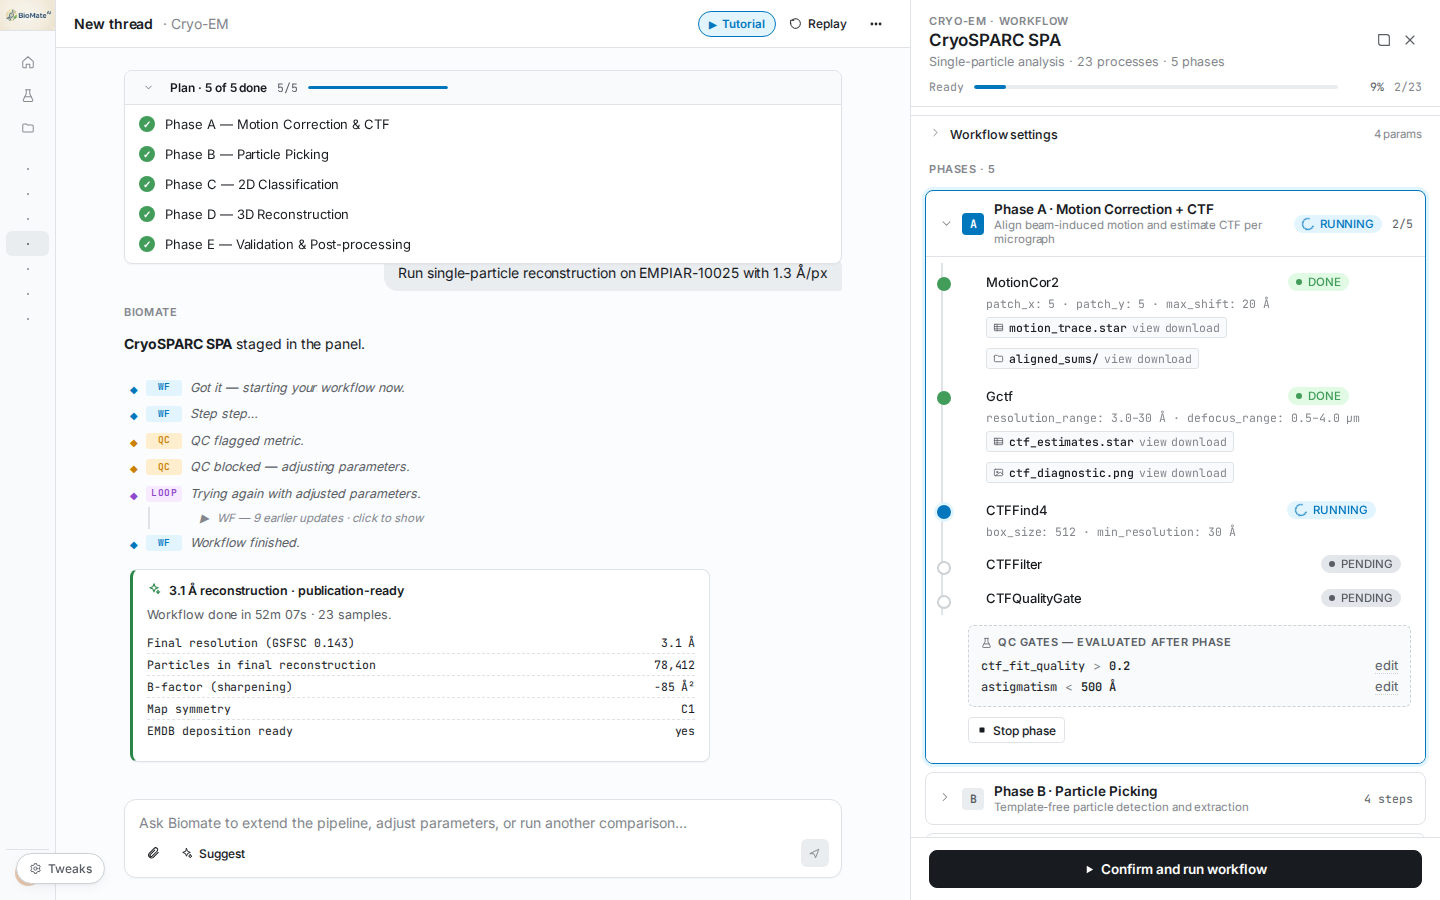
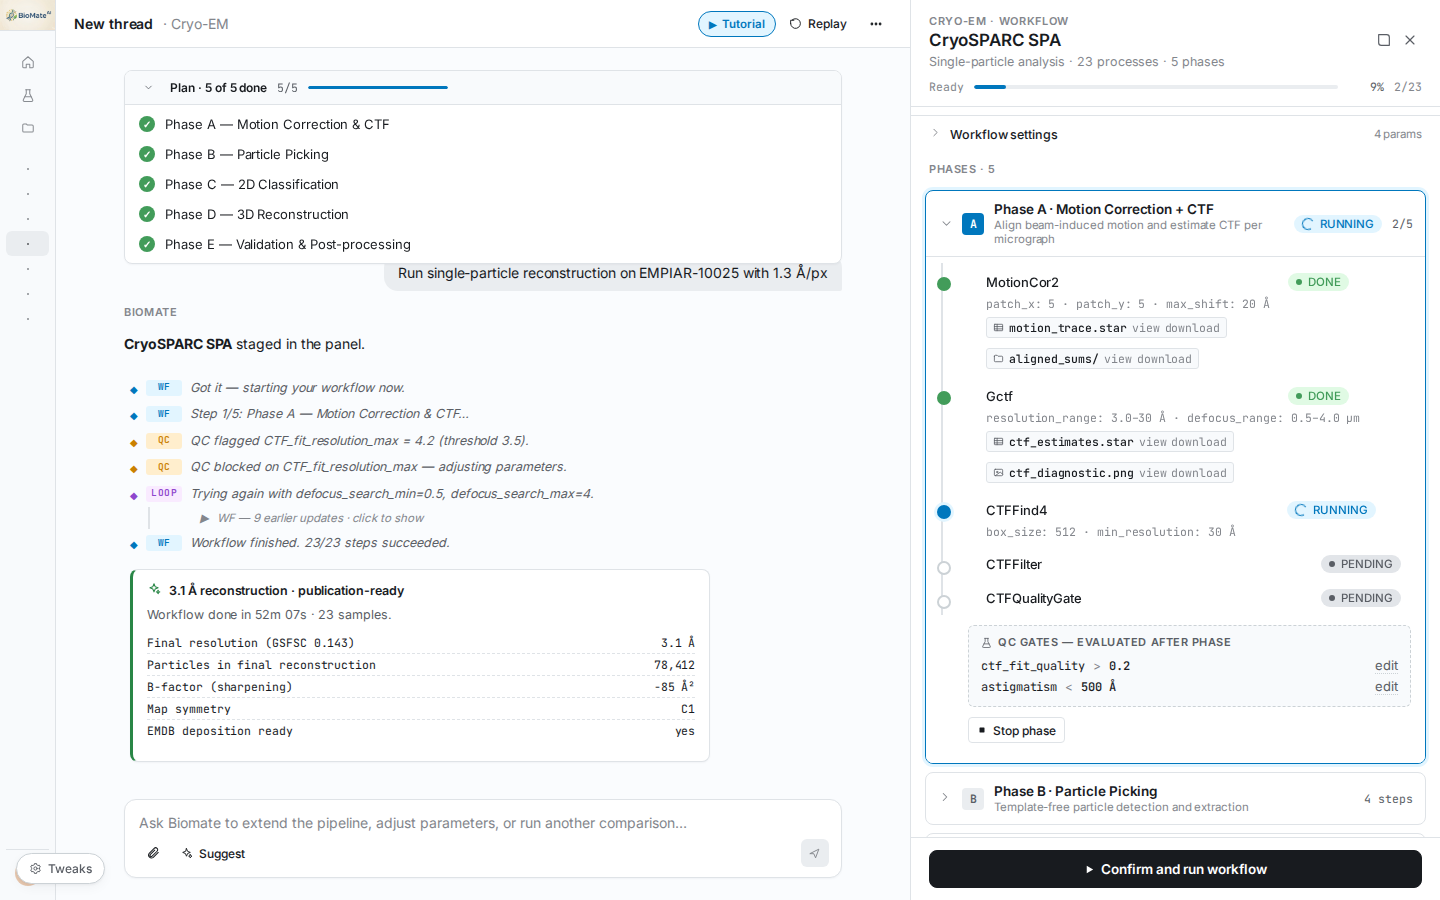
research_agent_v2: fix mock SSE friendly_message — non-enumerable getter + emit-time materialization
The audit screenshots called out generic fallback chat strings ("Step step…",
"QC flagged metric.") whenever a tape event used the spread pattern
{ ...e('kind'), technical: {…} }. The spread copied the cached
friendly_message computed from the empty technical block in makeEvent
before the post-spread technical override was attached.

Fix:
- makeEvent defines friendly_message as a non-enumerable getter, so the
  spread does NOT copy a stale string into the emitted event.
- The mock emitter materializes the final friendly_message at send time
  from the (now-final) technical block, unless the call site explicitly
  set one (e.g. deepagent.start passes its own custom message).

Result: chat now shows "Step 2/5: BWA-MEM2 alignment…" /
"QC flagged mapping_rate = 0.948 (threshold 0.95)." /
"Workflow finished. 5/5 steps succeeded." across all four tapes. Audit
re-run, 4/4 still passing, 0 JS errors. Screenshots + videos refreshed.

Changed region(s): [[0.1562, 0.4356, 0.4062, 0.56], [0.2188, 0.5911, 0.3125, 0.6222]]

diff --git a/frontend/research_agent_v2/src/sse-adapter.js b/frontend/research_agent_v2/src/sse-adapter.js
@@ -92,15 +92,31 @@
   }
 
   // ── Event factory ──
+  // Returns a plain object that recomputes friendly_message on read,
+  // so spread call sites that attach `technical` after the spread still
+  // get a properly-filled string. Explicit overrides (e.g.
+  // `{ ...e('kind'), friendly_message: 'custom' }`) win because the
+  // spread sets friendly_message to its current value (an accessor read)
+  // and the override then replaces it as a plain data property.
   function makeEvent(kind, invocation_id, technical) {
-    return {
+    const ev = {
       kind,
       invocation_id,
-      friendly_message: renderFriendly(kind, technical),
       speaker: deriveSpeaker(kind),
       ts: Date.now() / 1000,
       technical: technical || {},
     };
+    // Non-enumerable getter so spread `{...e('K'), technical:{…}}` does NOT
+    // copy a stale friendly_message. The mock emitter computes the final
+    // string at send time using the post-spread technical block. Explicit
+    // overrides (`{ ...e('K'), friendly_message: 'custom' }`) become own
+    // enumerable properties and win at emit time.
+    Object.defineProperty(ev, 'friendly_message', {
+      enumerable: false,
+      configurable: true,
+      get() { return renderFriendly(this.kind, this.technical); },
+    });
+    return ev;
   }
 
   // ═══════════════════════════════════════════════════════════════════
@@ -445,6 +461,12 @@
         const [delayMs, event] = tape[i++];
         timer = setTimeout(() => {
           if (closed) return;
+          // Materialize friendly_message from the (now-final) technical block.
+          // Skip internal __* events and respect explicit overrides.
+          if (event && event.kind && event.kind[0] !== '_'
+              && !Object.prototype.hasOwnProperty.call(event, 'friendly_message')) {
+            event.friendly_message = renderFriendly(event.kind, event.technical || {});
+          }
           try { onEvent(event); } catch (e) { console.warn('[mock-sse] onEvent threw:', e); }
           next();
         }, Math.max(0, delayMs / speed));

diff --git a/frontend/research_agent_v2/index.html b/frontend/research_agent_v2/index.html
@@ -26,7 +26,7 @@
 
 <!-- SSE adapter — provides mock + real BioMate stream factories on window.SseAdapter.
      Loaded BEFORE ResearchApp so the ?live=mock|real path can find it. -->
-<script src="src/sse-adapter.js?v=3"></script>
+<script src="src/sse-adapter.js?v=4"></script>
 
 </head>
 <body>
